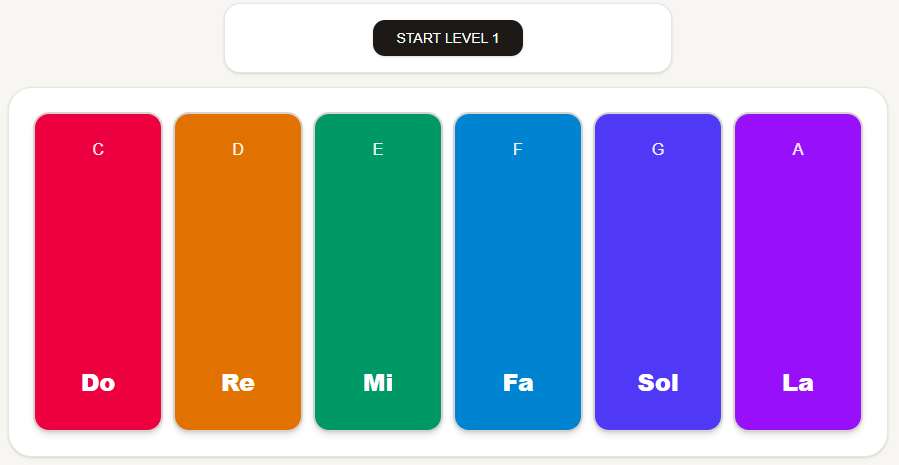
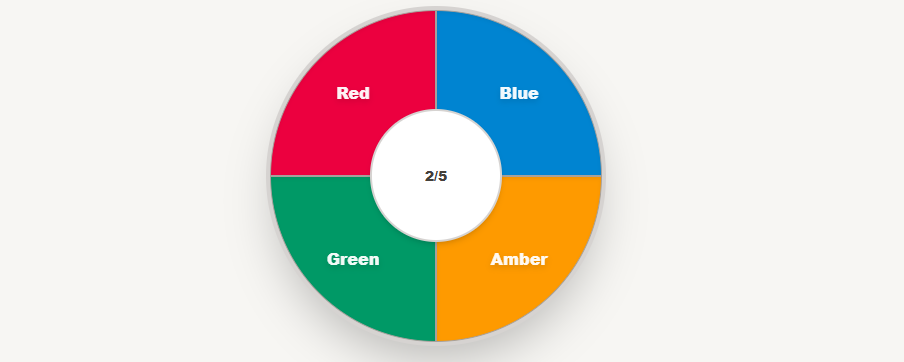
Update Games Hub page: make games list responsive with a single column on mobile to prevent description text clipping

diff --git a/app/games/page.tsx b/app/games/page.tsx
@@ -151,29 +151,29 @@ export default function GamesPage() {
   }, []);
 
   return (
-    <main className="h-dvh w-screen bg-[#F4F1EA] text-[#1C1917] p-2 md:p-3 flex flex-col justify-between overflow-hidden box-border font-serif select-none">
+    <main className="min-h-dvh w-screen bg-[#F4F1EA] text-[#1C1917] p-2 md:p-3 flex flex-col justify-between overflow-y-auto md:overflow-hidden box-border font-serif select-none">
       
       {/* Top Header container */}
-      <header className="w-full max-w-5xl mx-auto bg-[#FDFAF6] rounded-2xl shadow-sm border border-[#D6CFC7] overflow-hidden flex flex-col">
+      <header className="w-full max-w-5xl mx-auto bg-[#FDFAF6] rounded-2xl shadow-sm border border-[#D6CFC7] overflow-hidden flex flex-col shrink-0">
         
         {/* Main Navigation */}
-        <nav className="flex justify-between items-center px-6 py-2.5 border-b border-[#E6E0D5] bg-[#FDFAF6]">
-          <h1 className="text-xl font-normal tracking-wide text-[#1C1917] uppercase">Games Hub</h1>
+        <nav className="flex justify-between items-center px-4 md:px-6 py-2.5 border-b border-[#E6E0D5] bg-[#FDFAF6]">
+          <h1 className="text-lg md:text-xl font-normal tracking-wide text-[#1C1917] uppercase">Games Hub</h1>
           <div className="flex gap-2">
-            <Link href="/games" className="px-4 py-1.5 bg-[#1C1917] text-[#FAF8F5] rounded-xl text-sm font-medium tracking-wide shadow-2xs">Games</Link>
-            <Link href="/journal" className="px-4 py-1.5 bg-[#FDFAF6] border border-[#D6CFC7] text-[#44403C] hover:text-[#1C1917] rounded-xl text-sm font-medium tracking-wide shadow-2xs">Journal</Link>
+            <Link href="/games" className="px-3 md:px-4 py-1.5 bg-[#1C1917] text-[#FAF8F5] rounded-xl text-xs md:text-sm font-medium tracking-wide shadow-2xs">Games</Link>
+            <Link href="/journal" className="px-3 md:px-4 py-1.5 bg-[#FDFAF6] border border-[#D6CFC7] text-[#44403C] hover:text-[#1C1917] rounded-xl text-xs md:text-sm font-medium tracking-wide shadow-2xs">Journal</Link>
           </div>
         </nav>
 
         {/* Weather Submenu */}
-        <section className="bg-[#F5EFEB] px-5 py-2.5 flex flex-col gap-2 border-t border-[#E6E0D5]">
+        <section className="bg-[#F5EFEB] px-4 md:px-5 py-2.5 flex flex-col gap-2 border-t border-[#E6E0D5]">
           <div className="flex flex-wrap justify-between items-center gap-2">
-            <div className="flex items-center gap-2.5">
-              <span className="bg-[#292524] text-[#FDE047] px-3 py-1 rounded-xl font-semibold text-xs tracking-wider shadow-2xs border border-[#44403C]">📍 {locationName}</span>
-              <span className="text-sm md:text-base font-medium tracking-wider text-[#1C1917]">TODAY IS {currentDate.toUpperCase()}</span>
+            <div className="flex items-center gap-2">
+              <span className="bg-[#292524] text-[#FDE047] px-2.5 py-1 rounded-xl font-semibold text-[11px] md:text-xs tracking-wider shadow-2xs border border-[#44403C]">📍 {locationName}</span>
+              <span className="text-xs md:text-base font-medium tracking-wider text-[#1C1917] truncate max-w-[180px] md:max-w-none">TODAY IS {currentDate.toUpperCase()}</span>
             </div>
-            <div className="flex items-center gap-1.5 bg-[#B45309] text-[#FFFBEB] px-3 py-1 rounded-xl font-semibold text-sm tracking-wide shadow-2xs border border-[#92400E]">
-              <span className="text-base">⛅</span>
+            <div className="flex items-center gap-1.5 bg-[#B45309] text-[#FFFBEB] px-2.5 py-1 rounded-xl font-semibold text-xs md:text-sm tracking-wide shadow-2xs border border-[#92400E]">
+              <span className="text-sm md:text-base">⛅</span>
               <span>{weatherInfo}</span>
             </div>
           </div>
@@ -182,10 +182,10 @@ export default function GamesPage() {
           <div className="grid grid-cols-7 gap-1 bg-[#E7E2D8] p-1 rounded-xl border border-[#D6CFC7]">
             {weeklyForecast.map((day, idx) => (
               <div key={idx} className="flex flex-col items-center justify-center bg-[#FFFFFF] py-1 px-0.5 rounded-lg text-center border border-[#D6CFC7] shadow-2xs">
-                <span className="text-[11px] font-semibold text-[#1C1917] mb-0.5 tracking-tight leading-none truncate w-full">{day.date}</span>
+                <span className="text-[10px] md:text-[11px] font-semibold text-[#1C1917] mb-0.5 tracking-tight leading-none truncate w-full">{day.date}</span>
                 <div className="flex items-center justify-center gap-0.5 leading-none">
-                  <span className="text-xs">{getWeatherEmoji(day.condition)}</span>
-                  <span className="text-[11px] font-bold text-[#1C1917]">{day.maxTemp}°</span>
+                  <span className="text-[11px] md:text-xs">{getWeatherEmoji(day.condition)}</span>
+                  <span className="text-[10px] md:text-[11px] font-bold text-[#1C1917]">{day.maxTemp}°</span>
                 </div>
               </div>
             ))}
@@ -194,9 +194,9 @@ export default function GamesPage() {
 
       </header>
 
-      {/* Games List Grid */}
-      <section className="w-full max-w-5xl mx-auto flex-1 flex flex-col justify-center my-1.5">
-        <div className="grid grid-cols-2 gap-2.5">
+      {/* Games List Grid (Responsive: 1 col on mobile, 2 cols on tablet/desktop) */}
+      <section className="w-full max-w-5xl mx-auto flex-1 flex flex-col justify-center my-2">
+        <div className="grid grid-cols-1 md:grid-cols-2 gap-2 md:gap-2.5">
           {gamesList.map((game, i) => (
             <Link 
               key={i} 
@@ -205,7 +205,7 @@ export default function GamesPage() {
             >
               
               {/* Card Content Layout */}
-              <div className="flex p-3.5 gap-3.5 items-center">
+              <div className="flex p-3 md:p-3.5 gap-3 md:gap-3.5 items-center">
                 
                 {/* Picture Preview Container */}
                 <div className="relative w-24 h-20 md:w-28 md:h-20 rounded-xl overflow-hidden bg-[#F5EFEB] border border-[#D6CFC7] shrink-0 shadow-2xs group-hover:scale-[1.02] transition-transform">
@@ -224,7 +224,7 @@ export default function GamesPage() {
                     <span className="inline-block bg-[#E7E2D8] text-[#1C1917] px-2 py-0.5 rounded-md text-[10px] font-semibold tracking-wider uppercase border border-[#D6CFC7] mb-1">
                       {game.badge}
                     </span>
-                    <h3 className="text-base md:text-lg font-normal tracking-wide text-[#1C1917] truncate">{game.title}</h3>
+                    <h3 className="text-sm md:text-lg font-normal tracking-wide text-[#1C1917] truncate">{game.title}</h3>
                   </div>
                   <p className="text-xs text-[#44403C] font-normal leading-relaxed line-clamp-2">
                     {game.description}
@@ -233,10 +233,10 @@ export default function GamesPage() {
               </div>
 
               {/* Action Footer */}
-              <div className="px-3.5 py-2 bg-[#F5EFEB] border-t border-[#E6E0D5] flex items-center justify-end">
-                <span className="px-4 py-1.5 bg-[#1C1917] group-hover:bg-[#292524] text-[#FAF8F5] font-medium text-xs md:text-sm tracking-wide rounded-xl transition-all shadow-2xs flex items-center gap-1.5">
+              <div className="px-3 md:px-3.5 py-1.5 md:py-2 bg-[#F5EFEB] border-t border-[#E6E0D5] flex items-center justify-end">
+                <span className="px-3 md:px-4 py-1 md:py-1.5 bg-[#1C1917] group-hover:bg-[#292524] text-[#FAF8F5] font-medium text-xs md:text-sm tracking-wide rounded-xl transition-all shadow-2xs flex items-center gap-1.5">
                   <span>Play Game</span>
-                  <span className="text-sm font-normal">➔</span>
+                  <span className="text-xs md:text-sm font-normal">➔</span>
                 </span>
               </div>
 
